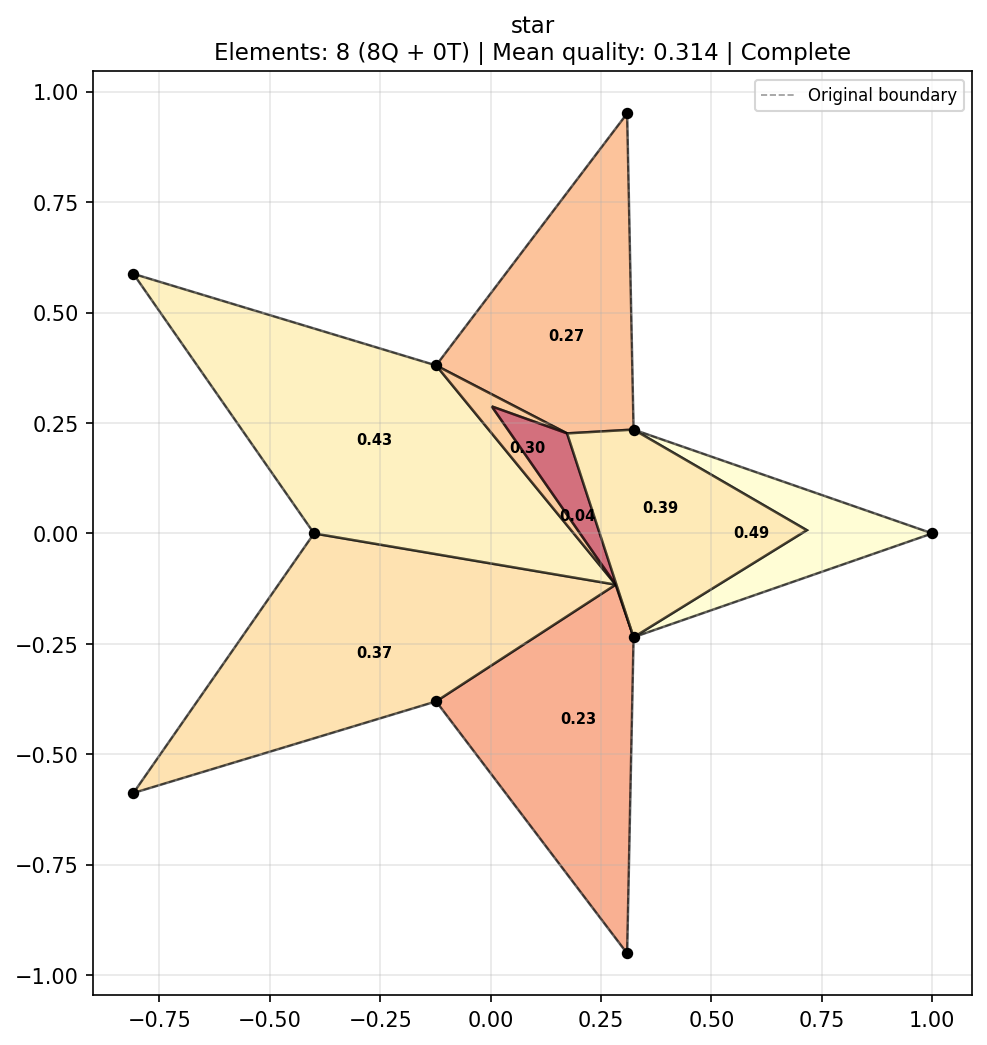
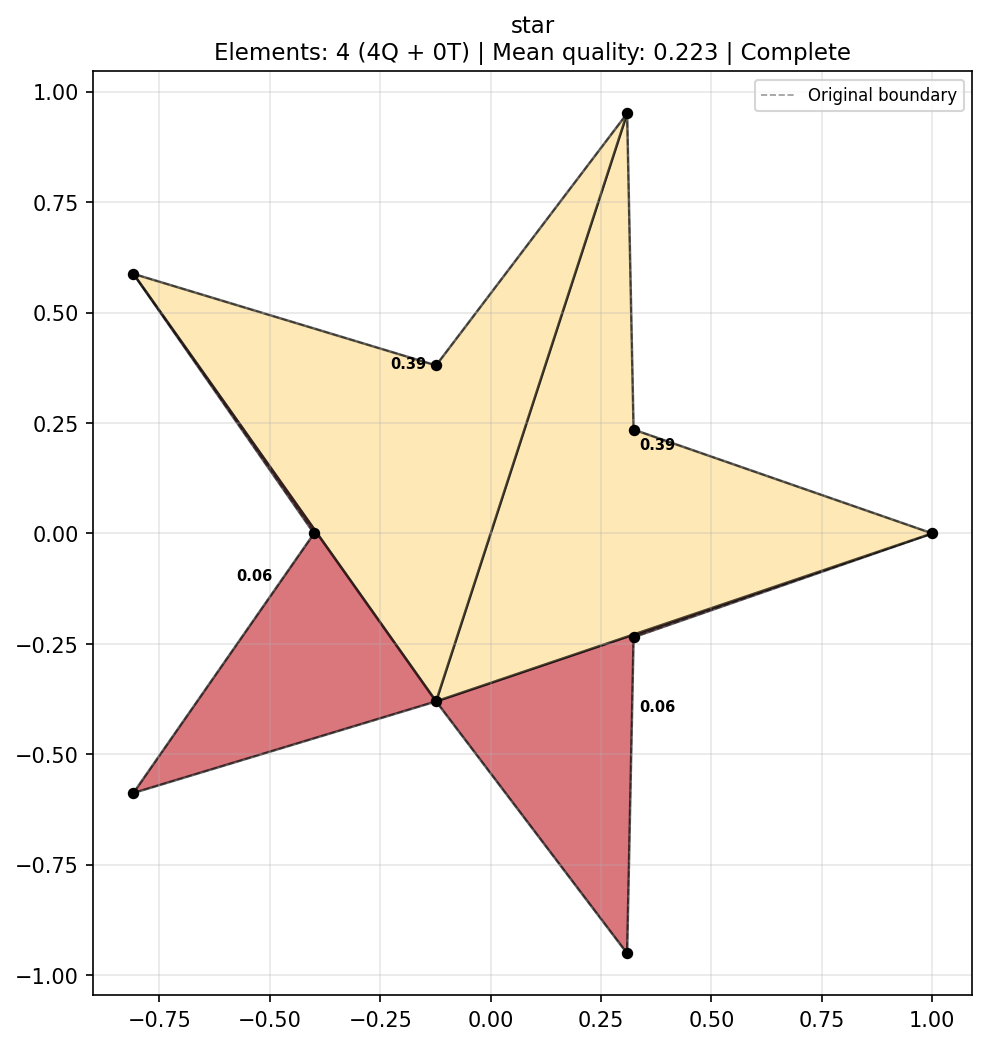
Implement Pan et al. reward structure, add greedy baseline, train 4 domains (session 4)
Replace area_consumed positive reward with bounded density penalty (mu),
add boundary angle quality term (eta_b), use element quality at full weight.
Flat +10 completion bonus. Add --greedy flag for quality-first baseline.

Results: star 4Q q=0.223, octagon 3Q q=0.478, l-shape 2Q q=0.459,
rectangle 9Q q=0.464 (first 20v scaling test, 100% completion).

diff --git a/src/DiscreteActionEnv.py b/src/DiscreteActionEnv.py
@@ -93,8 +93,7 @@ class DiscreteActionEnv(gym.Wrapper):
         bnd_len = len(self.env.boundary)
         if bnd_len < 3:
             # Boundary fully consumed — all quads, best possible outcome
-            mean_q = np.mean(self.env.element_qualities) if self.env.element_qualities else 0
-            reward = 5.0 + 10.0 * mean_q ** 2  # quadratic: penalizes low quality smoothly
+            reward = 10.0  # flat completion bonus (Pan et al.)
             done = True
         elif bnd_len == 3:
             # Triangle remainder — check if boundary or interior
@@ -102,11 +101,10 @@ class DiscreteActionEnv(gym.Wrapper):
             self.env.elements.append(tri)
             self.env.element_qualities.append(0.3)
             self.env.boundary = np.empty((0, 2))
-            mean_q = np.mean(self.env.element_qualities) if self.env.element_qualities else 0
             if self.env.is_boundary_triangle(tri):
-                reward = 2.0 + 4.0 * mean_q  # boundary triangle: moderate penalty
+                reward = 6.0  # boundary triangle: reduced completion bonus
             else:
-                reward = 0.5 + 1.0 * mean_q  # interior triangle: heavy penalty
+                reward = 3.0  # interior triangle: heavy penalty
             done = True
         elif bnd_len == 4:
             bnd_quad = np.array(self.env.boundary)
@@ -116,8 +114,7 @@ class DiscreteActionEnv(gym.Wrapper):
                 self.env.elements.append(bnd_quad)
                 self.env.element_qualities.append(quality_final)
                 self.env.boundary = np.empty((0, 2))
-                mean_q = np.mean(self.env.element_qualities)
-                reward = 5.0 + 10.0 * mean_q ** 2  # quadratic: penalizes low quality smoothly
+                reward = 10.0  # flat completion bonus (Pan et al.)
                 done = True
             else:
                 # Self-intersecting quad → 2 triangles (worst outcome)
@@ -126,20 +123,32 @@ class DiscreteActionEnv(gym.Wrapper):
                 self.env.elements.append(np.array([bnd[0], bnd[2], bnd[3]]))
                 self.env.element_qualities.extend([0.2, 0.2])
                 self.env.boundary = np.empty((0, 2))
-                mean_q = np.mean(self.env.element_qualities)
-                reward = 0.5 + 2.0 * mean_q  # heavy penalty
+                reward = 2.0  # worst completion
                 done = True
         else:
-            # Dense reward: quality-weighted + area progress + step penalty
-            reward = 0.3 * quality  # [0, 0.3] — quality signal (reduced from 2.0)
+            # --- Pan et al. per-step reward: r = eta_e + eta_b + mu ---
 
-            # Area consumed this step (positive = good)
-            prev_area = self._prev_area_ratio if self._prev_area_ratio is not None else 1.0
-            area_consumed = prev_area - area_ratio
-            reward += 1.0 * area_consumed  # area progress
+            # eta_e: element quality at full weight (0 to 1)
+            eta_e = quality
 
-            # Step penalty to encourage efficiency
-            reward -= 0.05
+            # eta_b: boundary quality penalty (-1 to 0)
+            # Penalizes actions that leave sharp remaining angles
+            min_boundary_angle = self.env.compute_min_boundary_angle()
+            eta_b = min_boundary_angle / 180.0 - 1.0  # maps [0,180] → [-1, 0]
+
+            # mu: density penalty (-1 to 0)
+            # Penalizes elements below minimum area threshold
+            element_area = self.env._calculate_polygon_area(new_element)
+            A_min = 0.01 * self.env.original_area
+            A_max = 0.1 * self.env.original_area
+            if element_area < A_min:
+                mu = -1.0
+            elif element_area < A_max:
+                mu = (element_area - A_min) / (A_max - A_min) - 1.0
+            else:
+                mu = 0.0
+
+            reward = eta_e + eta_b + mu
 
         self._prev_area_ratio = area_ratio
         # Track boundary for info

diff --git a/main.py b/main.py
@@ -191,7 +191,76 @@ def parse_args():
     parser.add_argument('--eval-only', action='store_true',
                         help='Skip training, just evaluate loaded model')
 
+    # Greedy baseline
+    parser.add_argument('--greedy', action='store_true',
+                        help='Run greedy-by-quality rollout (no training)')
+
     return parser.parse_args()
+
+
+def run_greedy(boundary, domain_name, n_angle=12, n_dist=4):
+    """Run a greedy-by-quality rollout and save visualization."""
+    from src.DiscreteActionEnv import DiscreteActionEnv
+    from src.utils.visualization import save_mesh_result
+
+    env = MeshEnvironment(initial_boundary=boundary)
+    discrete_env = DiscreteActionEnv(env, n_angle=n_angle, n_dist=n_dist)
+
+    state, info = discrete_env.reset()
+    done = False
+    steps = 0
+    total_reward = 0
+
+    while not done and steps < 30:
+        mask = info["action_mask"]
+        valid_indices = np.where(mask)[0]
+        if len(valid_indices) == 0:
+            break
+
+        # Evaluate quality for each valid action
+        best_action = None
+        best_quality = -1
+        ref_vertex = env._cached_ref_vertex
+        for action_idx in valid_indices:
+            action_type, new_vertex = discrete_env._valid_actions[action_idx]
+            element, valid = env._form_element(ref_vertex, action_type, new_vertex)
+            if valid and len(element) == 4:
+                q = env._calculate_element_quality(element)
+                if q > best_quality:
+                    best_quality = q
+                    best_action = action_idx
+
+        if best_action is None:
+            # No quad actions — take first valid
+            best_action = valid_indices[0]
+
+        state, reward, done, truncated, info = discrete_env.step(best_action)
+        total_reward += reward
+        steps += 1
+        if truncated:
+            break
+
+    filepath = save_mesh_result(env, f"{domain_name}_greedy", "output/latest")
+
+    n_quads = sum(1 for e in env.elements if len(e) == 4)
+    n_tris = sum(1 for e in env.elements if len(e) == 3)
+    mean_q = np.mean(env.element_qualities) if env.element_qualities else 0
+
+    print(f"Greedy {domain_name}: return={total_reward:.2f} | "
+          f"quality={mean_q:.3f} | "
+          f"elements={len(env.elements)} ({n_quads}Q+{n_tris}T) | "
+          f"complete={done} | steps={steps}")
+
+    return {
+        "domain": domain_name,
+        "return": total_reward,
+        "mean_quality": mean_q,
+        "n_elements": len(env.elements),
+        "n_quads": n_quads,
+        "n_triangles": n_tris,
+        "completed": done,
+        "steps": steps,
+    }
 
 
 def main():
@@ -201,6 +270,10 @@ def main():
     boundary = DOMAINS[args.domain]()
     env = MeshEnvironment(initial_boundary=boundary)
     print(f"Domain: {args.domain} ({len(boundary)} vertices)")
+
+    if args.greedy:
+        run_greedy(boundary, args.domain, n_angle=args.n_angle, n_dist=args.n_dist)
+        return
 
     if args.algorithm == 'dqn':
         from src.DiscreteActionEnv import DiscreteActionEnv

diff --git a/src/MeshEnvironment.py b/src/MeshEnvironment.py
@@ -597,6 +597,33 @@ class MeshEnvironment(gym.Env):
 
         return False
 
+    def compute_min_boundary_angle(self):
+        """Compute the minimum interior angle (degrees) of the remaining boundary polygon.
+
+        Used for eta_b (boundary quality penalty) in Pan et al.'s reward.
+        Returns 180.0 if boundary has fewer than 3 vertices.
+        """
+        bnd = self.boundary
+        n = len(bnd)
+        if n < 3:
+            return 180.0
+
+        min_angle = 360.0
+        for i in range(n):
+            prev_idx = (i - 1) % n
+            next_idx = (i + 1) % n
+            v1 = bnd[prev_idx] - bnd[i]
+            v2 = bnd[next_idx] - bnd[i]
+            v1_norm = np.linalg.norm(v1)
+            v2_norm = np.linalg.norm(v2)
+            if v1_norm < 1e-12 or v2_norm < 1e-12:
+                continue
+            dot = np.clip(np.dot(v1, v2) / (v1_norm * v2_norm), -1.0, 1.0)
+            angle = np.arccos(dot) * 180.0 / np.pi
+            if angle < min_angle:
+                min_angle = angle
+        return min_angle
+
     def is_boundary_triangle(self, triangle):
         """Check if a triangle has at least one edge on the original domain boundary."""
         tri = np.asarray(triangle)

diff --git a/CLAUDE.md b/CLAUDE.md
@@ -27,6 +27,9 @@ pytest tests/ -v
 # Run a single test
 pytest tests/test_discrete_env.py::TestActionEnumeration::test_type0_always_present -v
 
+# Run greedy-by-quality baseline (no training)
+python main.py --domain star --greedy
+
 # Analyze quality ceiling for a domain
 python quality_diagnostic.py
 ```
@@ -61,8 +64,8 @@ main.py (CLI + domain registry)
 ### State Representation
 44-float enriched vector: boundary context (neighbor positions, angles) + fan-shape sample points + area ratio.
 
-### Reward Structure
-Per-step: `quality_weight * element_quality + area_progress - step_penalty`. Completion bonus for finishing the mesh. Quality metric is scaled Jacobian (0-1 range).
+### Reward Structure (Pan et al.)
+Per-step: `r = eta_e + eta_b + mu` where eta_e = element quality (0 to 1), eta_b = boundary angle penalty (-1 to 0), mu = density penalty (-1 to 0). Completion: flat +10. Quality metric is sqrt(q_edge * q_angle) (0-1 range). See `DiscreteActionEnv.step()` for implementation.
 
 ## Key Patterns
 
@@ -88,6 +91,7 @@ All development sessions must follow the adversarial planning process documented
 
 ## Known Issues
 
-- DQN tends to reward-farm: places 20-44 elements per episode (optimal ~5) because intermediate quality rewards dominate the completion bonus.
+- Reward farming was fixed in session 3, and Pan et al. reward was implemented in session 4. Agent now uses very few elements (4 on star, 3 on octagon) but individual element quality is low (star=0.223). The eta_b boundary penalty may be driving the agent to minimize steps rather than place quality elements.
 - Quality ceiling is geometry-limited (star≈0.44, circle≈0.78, octagon≈0.61), not discretization-limited.
 - SAC agent (`src/SAC.py`, `src/trainer.py`) is legacy and does not learn effectively — DQN is the active approach.
+- Rectangle (20v) scales: 100% completion with 9 elements, quality=0.464.
